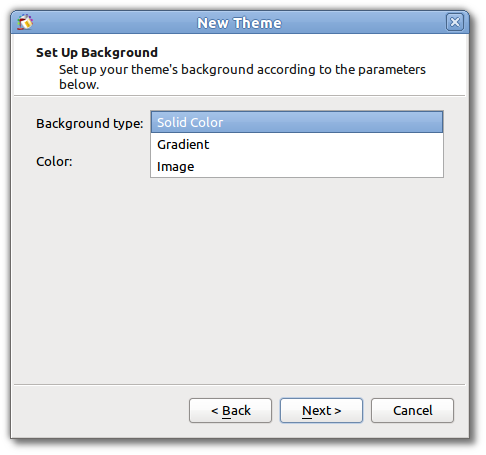
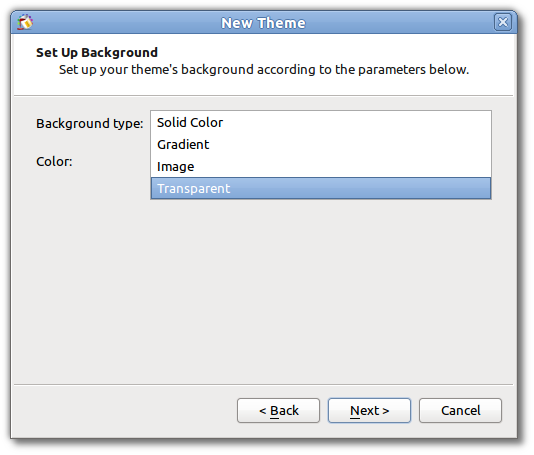
various image changes and reword

diff --git a/manual/source/themes.rst b/manual/source/themes.rst
@@ -4,7 +4,6 @@
 Themes
 ======
 
-
 The *Theme Manager* is where you can set backgrounds, fonts, and colors to the 
 style you desire. From the theme manager you can create a new theme, Edit a 
 theme, Delete a theme, Import a theme, and Export a theme.
@@ -18,8 +17,8 @@ Creating New Themes
 
 .. image:: /pics/theme_manager_wizard.png
 
-Click :guilabel:`Next`. You have 3 choices in the drop down menu for Background
-type: Solid Color, Gradient, or Image.
+Click :guilabel:`Next`. You have 4 choices in the drop down menu for Background
+type: Solid Color, Gradient, Image or Transparent.
 
 .. image:: /pics/theme_manager_background.png 
  
@@ -30,9 +29,9 @@ type: Solid Color, Gradient, or Image.
 .. image:: /pics/theme_manager_selectcolor.png
 
 **Gradient:** 
-    Choose the two colors, *Starting* and *Ending* that you want to fade 
-    together and the Gradient drop down will let you determine the directions 
-    of the fade.
+    Choose the two colors, :guilabel:`Starting color` and :guilabel:`Ending color` 
+    that you want to fade together and the Gradient drop down will let you 
+    determine the directions of the fade.
 
 .. image:: /pics/theme_manager_gradient.png
 
@@ -53,6 +52,10 @@ type: Solid Color, Gradient, or Image.
 
 **Note:** When possible, try to use the same size image as your projector is
 displaying unless you want a background color for a border.
+
+**Transparent:**
+    Using the transparent theme will use whatever wallpaper or background color 
+    that your desktop is using for the theme background.
 
 When finished with your selection for background, click the :guilabel:`Next`
 button. 
